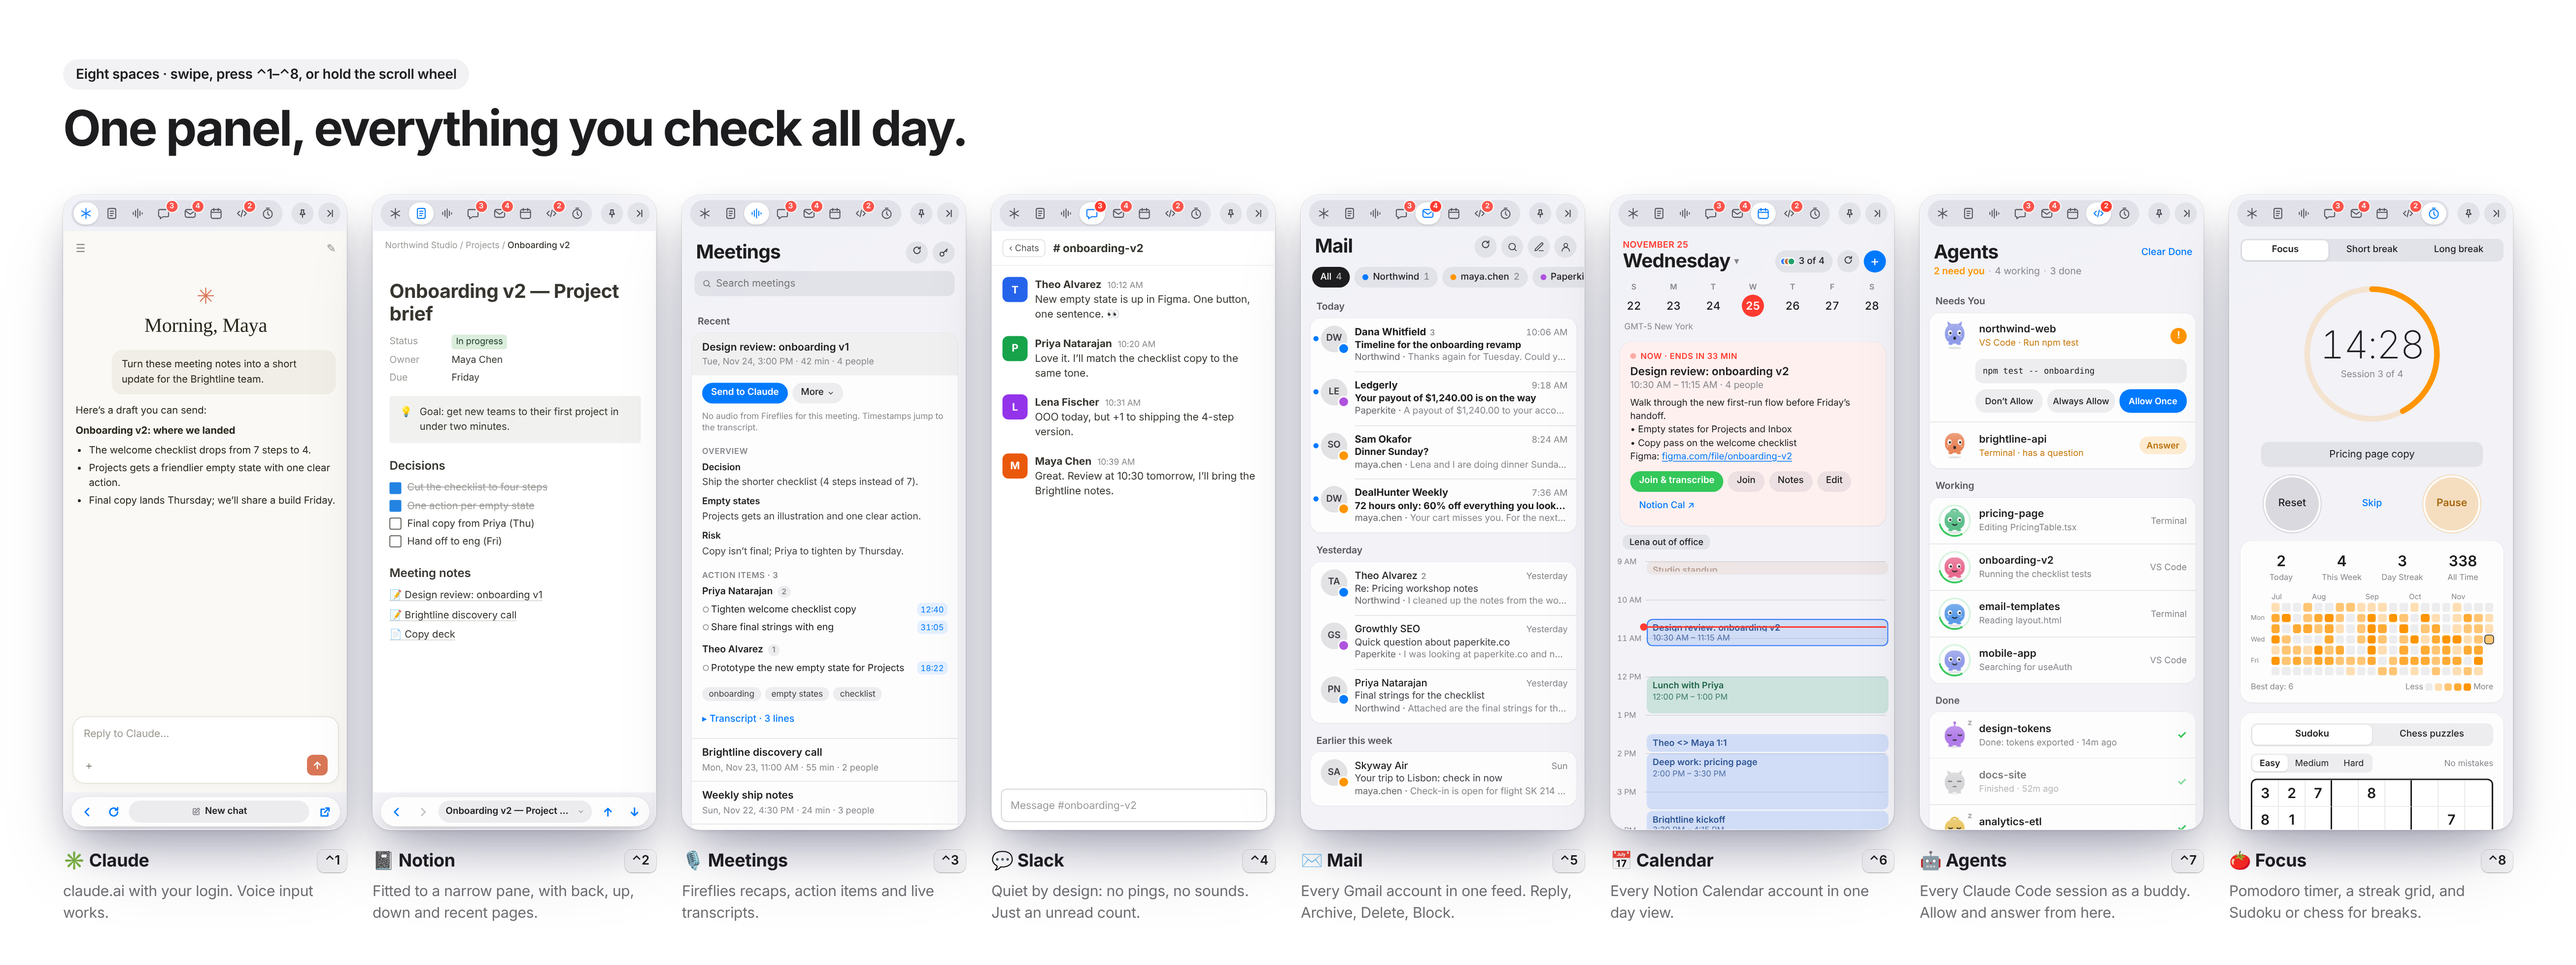
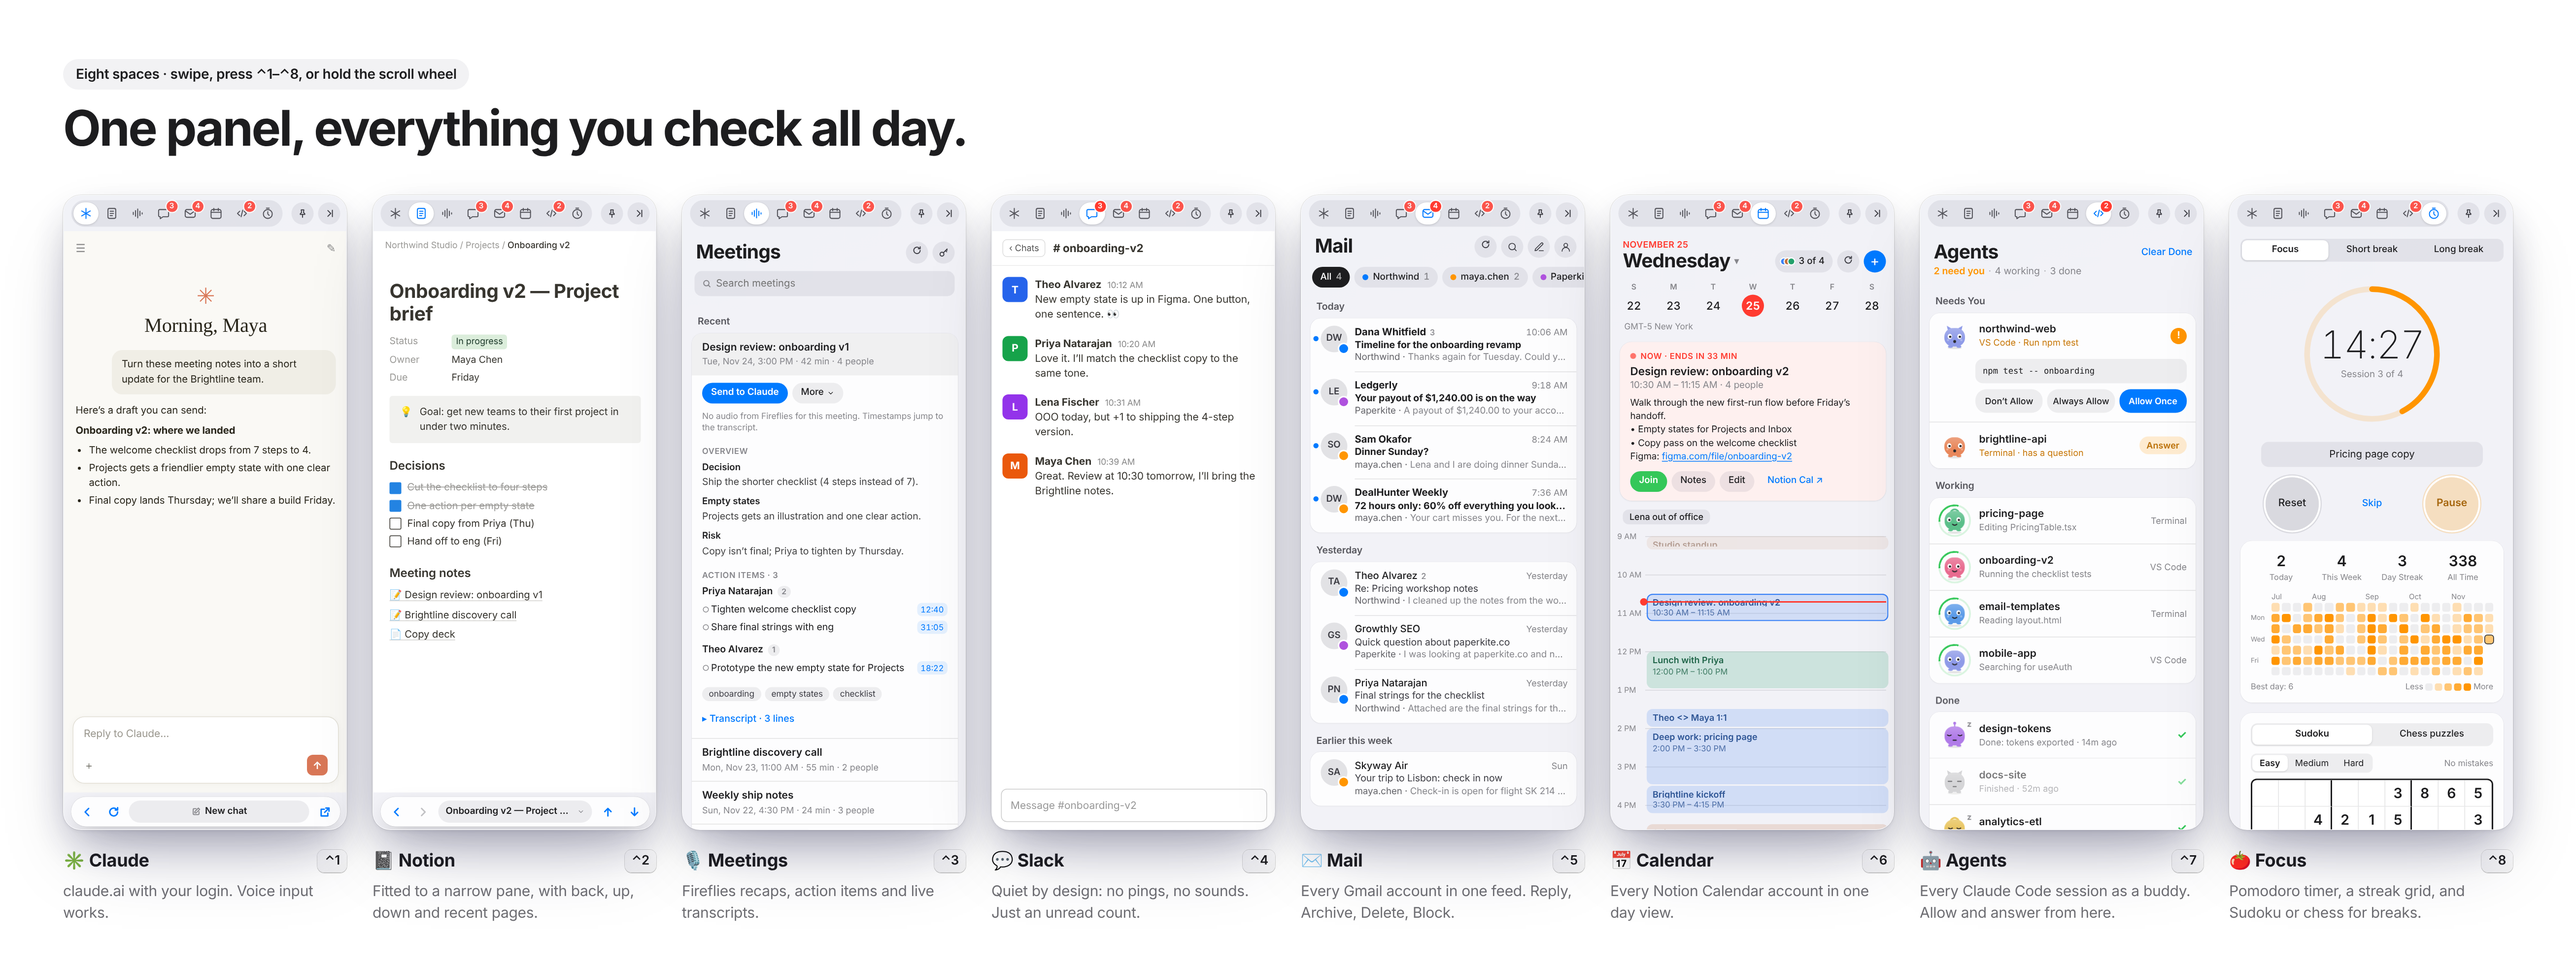
Notion: no AI Meeting Notes in Rail; Notes opens the meeting page; room for the block handle
- Hide Notion's AI Meeting Notes block (note taker / transcription) at every
  width, by block type and by its transcription button.
- Calendar's Notes opens the meeting's own page: when Notion hands back the AI
  block's page, go to the page it sits in.
- Remove Join & transcribe and Transcribe (and the code that started Notion's
  transcription). Join is the main button on the event card.
- Notion's left margin is 44px (was 16) so a block's drag handle sits inside
  the pane, away from the window edge and the sidebar.
- README and images updated.

Claude-Session: https://claude.ai/code/session_016wir8jwdAXLgTiGdY5bsxT

Changed region(s): [[0.6236, 0.4668, 0.7483, 0.8714]]

diff --git a/src/main/main.ts b/src/main/main.ts
@@ -735,10 +735,6 @@ const NOTION_CHILDREN = `(() => {
     seen.add(id);
     out.push({ url: location.origin + '/p/' + id, title: (title || '').replace(/\\s+/g, ' ').trim().slice(0, 70) || 'Untitled', kind });
   };
-  for (const b of frame.querySelectorAll('[class*="notion-meeting_note"][data-block-id]')) {
-    const t = b.querySelector('h1, h2, h3, [placeholder]')?.textContent || b.textContent;
-    add(b.getAttribute('data-block-id').replace(/-/g, ''), t, 'Meeting note');
-  }
   for (const b of frame.querySelectorAll('.notion-page-content [class*="notion-collection_view"][data-block-id]')) {
     const t = b.querySelector('[contenteditable], [placeholder]')?.textContent || b.textContent.slice(0, 60);
     add(b.getAttribute('data-block-id').replace(/-/g, ''), t, 'Database');
@@ -768,7 +764,7 @@ async function notionDown() {
   const kids = (await wc.executeJavaScript(NOTION_CHILDREN).catch(() => [])) as { url: string; title: string; kind: string }[];
   const ok = kids.filter((k) => /^https:\/\/([a-z]+\.)?notion\.(so|com)\//.test(k.url));
   const items: Electron.MenuItemConstructorOptions[] = ok.length
-    ? ok.map((k) => ({ label: k.kind === 'Meeting note' ? `\u{1F4DD}  ${k.title}` : k.title, sublabel: k.kind, click: () => wc.loadURL(k.url) }))
+    ? ok.map((k) => ({ label: k.title, sublabel: k.kind, click: () => wc.loadURL(k.url) }))
     : [{ label: 'No pages inside this one', enabled: false }];
   const d = divider.getBounds();
   Menu.buildFromTemplate(items).popup({ window: win, x: Math.max(0, d.width - 220), y: STRIP_H + d.y });
@@ -1109,43 +1105,30 @@ type CalReq =
   | { op: 'move'; id: string; title: string; start: number; end: number }
   | { op: 'edit'; id: string; title: string; start: number; end: number }
   | { op: 'add'; calendar: string; title: string; start: number; end: number }
-  | { op: 'notes'; id: string; transcribe?: boolean; join?: boolean }
+  | { op: 'notes'; id: string }
   | { op: 'rsvp'; id: string; title: string; response: 'accepted' | 'declined' | 'tentative' };
 
-// After a meeting note loads in the Notion pane, start Notion's own browser
-// transcription (the "Start in browser" choice under its transcription
-// button), the same as clicking it by hand. Only runs when the user pressed
-// Transcribe in Rail.
-const START_TRANSCRIPTION = `new Promise((done) => {
-  const t0 = Date.now();
-  const step = () => {
-    if (Date.now() - t0 > 15000) return done('timeout');
-    const item = [...document.querySelectorAll('.notion-overlay-container [role=menuitem], .notion-overlay-container [role=option], .notion-overlay-container [role=button]')]
-      .find((x) => /^Start in browser/.test(x.textContent.trim()));
-    if (item) { item.click(); return done('started'); }
-    const more = document.querySelector('[role=button][aria-label^="More transcri"]');
-    if (more && more.getAttribute('aria-expanded') !== 'true') more.click();
-    setTimeout(step, 400);
-  };
-  step();
-})`;
-
-// Notion files a calendar meeting note as a block inside a page of the same
-// name (the database row, with the user's properties). Notion's API returns
-// the block's own page; when its parent in the top bar is that same-named page,
-// open the parent instead, where the user takes notes.
+// Notion files a calendar meeting note as an AI Meeting Notes block inside the
+// meeting's page (the database row, with the user's properties). Notion's API
+// returns the block's own page. Rail doesn't use the AI block (it's hidden), so
+// open the page it sits in: the last link in the top bar's breadcrumb.
 const FIND_NOTE_PARENT = `new Promise((done) => {
   const t0 = Date.now();
   const norm = (t) => (t || '').replace(/\\s+/g, ' ').trim().slice(0, 24).toLowerCase();
+  const dashed = (id) => id.replace(/^(.{8})(.{4})(.{4})(.{4})(.{12})$/, '$1-$2-$3-$4-$5');
   const step = () => {
     if (Date.now() - t0 > 8000) return done(null);
-    const h1 = document.querySelector('.notion-frame h1, .notion-frame [placeholder="New page"], .notion-frame .notion-page-block');
     const here = location.pathname.match(/[0-9a-f]{32}/)?.[0];
     const link = [...document.querySelectorAll('.notion-topbar a[href*="/p/"], header a[href*="/p/"]')].pop();
-    if (h1 && link) {
-      const id = link.getAttribute('href').match(/[0-9a-f]{32}/)?.[0];
-      return done(id && id !== here && norm(link.textContent) === norm(h1.textContent) ? link.href : null);
-    }
+    const id = link?.getAttribute('href').match(/[0-9a-f]{32}/)?.[0];
+    const parent = id && id !== here ? link.href : null;
+    // Opened on the AI block itself: its own page is that block.
+    const root = here && document.querySelector('[data-block-id="' + dashed(here) + '"]');
+    if (parent && root && /meeting_note|transcription/.test(root.className)) return done(parent);
+    const h1 = document.querySelector('.notion-frame h1, .notion-frame [placeholder="New page"], .notion-frame .notion-page-block');
+    const ai = document.querySelector('.notion-frame [class*="notion-meeting_note"], .notion-frame [aria-label^="More transcri"]');
+    if (parent && ai && !h1) return done(parent);
+    if (h1 && link) return done(parent && norm(link.textContent) === norm(h1.textContent) ? parent : null);
     setTimeout(step, 300);
   };
   step();
@@ -1156,13 +1139,6 @@ async function openNoteParent() {
   if (wc.isLoading()) await new Promise<void>((r) => wc.once('did-finish-load', () => r()));
   const parent = await wc.executeJavaScript(FIND_NOTE_PARENT).catch(() => null);
   if (typeof parent === 'string' && /^https:\/\/([a-z]+\.)?notion\.(so|com)\//.test(parent)) await wc.loadURL(parent).catch(() => {});
-}
-
-function startNoteTranscription() {
-  const wc = notion.webContents;
-  const run = () => void wc.executeJavaScript(START_TRANSCRIPTION).catch(() => {});
-  if (wc.isLoading()) wc.once('did-finish-load', run);
-  else run();
 }
 
 async function handleCal(req: CalReq): Promise<unknown> {
@@ -1230,11 +1206,8 @@ async function handleCal(req: CalReq): Promise<unknown> {
       await refreshCalendar();
       return calSnapshot();
     case 'notes': {
-      const ev = anyCalEvent(req.id);
-      if (req.join && ev?.joinUrl) void shell.openExternal(ev.joinUrl);
       showNotionPage(await ncal.meetingNote(req.id));
       await openNoteParent();
-      if (req.transcribe) startNoteTranscription();
       return calSnapshot();
     }
     case 'rsvp': {

diff --git a/src/preload/notionCompact.ts b/src/preload/notionCompact.ts
@@ -1,17 +1,20 @@
 // Notion keeps ~96px side margins designed for wide windows. In Rail's narrow
-// pane that wastes a quarter of the width. This trims them to 16px while the
-// pane is narrow. It reads layout (computed styles), never page content, and
+// pane that wastes a quarter of the width. This trims them while the pane is
+// narrow: 44px on the left, so a block's ⋮⋮ drag handle (which Notion draws in
+// the margin, left of the block) stays inside the pane and away from the
+// window's edge, and 16px on the right. It reads layout (computed styles), never page content, and
 // doesn't rely on Notion's class names, which change often.
 
 const NARROW_MAX = 640; // only act when the pane is this narrow (CSS px)
 const MIN_MARGIN = 60; // margins at least this wide are "desktop" margins
-const GUTTER = 16;
+const GUTTER = 16; // right margin
+const LEFT = 44; // left margin: room for the ⋮⋮ block handle
 const MARK = 'data-rail-compact';
 
 const CSS = `
   [style*="padding-left: calc(96px"], [style*="padding-inline-start: calc(96px"] {
-    padding-left: calc(${GUTTER}px + env(safe-area-inset-left)) !important;
-    padding-inline-start: calc(${GUTTER}px + env(safe-area-inset-left)) !important;
+    padding-left: calc(${LEFT}px + env(safe-area-inset-left)) !important;
+    padding-inline-start: calc(${LEFT}px + env(safe-area-inset-left)) !important;
   }
   [style*="padding-right: calc(96px"], [style*="padding-inline-end: calc(96px"] {
     padding-right: calc(${GUTTER}px + env(safe-area-inset-right)) !important;
@@ -23,9 +26,7 @@ const CSS = `
      fixed max-width (about half the pane). Let them use the full width; media
      blocks keep their own sizing. */
   .notion-selectable:not(.notion-image-block):not(.notion-video-block):not(.notion-embed-block):not(.notion-bookmark-block)[style*="max-width"] { max-width: 100% !important; }
-  [class*="notion-meeting_note"] div:has(> div > h2) { flex-wrap: wrap !important; row-gap: 8px !important; }
-  [class*="notion-meeting_note"] div:has(> h2) { flex: 1 1 100% !important; }
-  [style*="padding-left: 96px"] { padding-left: ${GUTTER}px !important; }
+  [style*="padding-left: 96px"] { padding-left: ${LEFT}px !important; }
   [style*="padding-right: 96px"] { padding-right: ${GUTTER}px !important; }
 `;
 
@@ -42,7 +43,7 @@ function compactGrid(el: HTMLElement) {
   const [l, , r] = tracks.map((t) => parseFloat(t));
   if (!(l >= MIN_MARGIN && r >= MIN_MARGIN)) return;
   let i = 0;
-  const sizes = [`${GUTTER}px`, 'minmax(0, 1fr)', `${GUTTER}px`];
+  const sizes = [`${LEFT}px`, 'minmax(0, 1fr)', `${GUTTER}px`];
   const next = parts.map((p) => (p.startsWith('[') ? p : sizes[i++])).join(' ');
   el.style.setProperty('grid-template-columns', next, 'important');
   el.setAttribute(MARK, '1');
@@ -54,7 +55,7 @@ function compactPadding(el: HTMLElement) {
   const pr = parseFloat(cs.paddingRight);
   // Symmetric wide padding on a block that spans the pane = page margin.
   if (pl >= MIN_MARGIN && pr >= MIN_MARGIN && Math.abs(pl - pr) < 8 && el.clientWidth >= window.innerWidth * 0.8) {
-    el.style.setProperty('padding-left', `${GUTTER}px`, 'important');
+    el.style.setProperty('padding-left', `${LEFT}px`, 'important');
     el.style.setProperty('padding-right', `${GUTTER}px`, 'important');
     el.setAttribute(MARK, '1');
   }
@@ -164,6 +165,21 @@ function unfit() {
   });
 }
 
+// Notion's AI Meeting Notes block (the note taker and transcription card) is
+// not used in Rail: it's hidden at every width. Found by its block type, and,
+// in case Notion renames that, by the transcription button inside it.
+const NO_AI_NOTES = `
+  [class*="notion-meeting_note"], [class*="notion-transcription"] { display: none !important; }
+`;
+
+function hideAiNotes() {
+  document.querySelectorAll<HTMLElement>('[role="button"][aria-label^="More transcri"]:not([data-rail-hidden])').forEach((b) => {
+    b.setAttribute('data-rail-hidden', '1');
+    const block = b.closest<HTMLElement>('[data-block-id]');
+    if (block && !block.classList.contains('notion-page-block')) block.style.setProperty('display', 'none', 'important');
+  });
+}
+
 export function installNotionCompact() {
   let style: HTMLStyleElement | null = null;
   let timer: ReturnType<typeof setTimeout> | undefined;
@@ -189,13 +205,17 @@ export function installNotionCompact() {
   // Pop-ups are fitted on the next frame so they never show cut off.
   let raf = 0;
   const onMutate = () => {
-    if (!raf) raf = requestAnimationFrame(() => { raf = 0; fitOverlays(); hideAddProperty(); });
+    if (!raf) raf = requestAnimationFrame(() => { raf = 0; fitOverlays(); hideAddProperty(); hideAiNotes(); });
     schedule();
   };
 
   document.addEventListener('DOMContentLoaded', () => {
+    const noAi = document.createElement('style');
+    noAi.textContent = NO_AI_NOTES;
+    document.documentElement.appendChild(noAi);
     apply();
     hideAddProperty();
+    hideAiNotes();
     new MutationObserver(onMutate).observe(document.body, { childList: true, subtree: true });
     // Pop-ups can also move without any DOM being added (style-only
     // re-positioning), so re-check while one is open.

diff --git a/src/renderer/Calendar.tsx b/src/renderer/Calendar.tsx
@@ -290,17 +290,8 @@ function Today({ snap, busy, error, run }: { snap: CalSnapshot; busy: string; er
             </div>
           )}
           <div className="dbar wrap">
-            {focus.joinUrl ? (
-              <>
-                <button className="btn small primary" disabled={busy === 'notes'} title="Join the call and start Notion transcription in its meeting note"
-                  onClick={() => run('notes', { op: 'notes', id: focus.id, join: true, transcribe: true })}>Join &amp; transcribe</button>
-                <button className="btn small" onClick={() => void cal({ op: 'open', url: focus.joinUrl! })}>Join</button>
-              </>
-            ) : (
-              <button className="btn small primary" disabled={busy === 'notes'} title="Open the meeting note and start Notion transcription"
-                onClick={() => run('notes', { op: 'notes', id: focus.id, transcribe: true })}>Transcribe</button>
-            )}
-            <button className="btn small" disabled={busy === 'notes'} title="Open this event's Notion meeting note (makes one if there isn't one yet)" onClick={() => run('notes', { op: 'notes', id: focus.id })}>
+            {focus.joinUrl && <button className="btn small primary" onClick={() => void cal({ op: 'open', url: focus.joinUrl! })}>Join</button>}
+            <button className="btn small" disabled={busy === 'notes'} title="Open this event's meeting page in Notion" onClick={() => run('notes', { op: 'notes', id: focus.id })}>
               {busy === 'notes' ? 'Opening…' : 'Notes'}
             </button>
             {focus.canMove && <button className="btn small" title="Change the name, date or time" onClick={() => setEditing(focus.id)}>Edit</button>}

diff --git a/docs/design/shots/calendar.html b/docs/design/shots/calendar.html
@@ -7,7 +7,7 @@
     <div class="list">
       <div class="callout bg-blue"><span class="ic">👆</span><div><b>Drag to move, double-click to add.</b> Times snap to 15 minutes; guests get a heads-up first.</div></div>
       <div class="callout bg-yellow"><span class="ic">✏</span><div><b>Edit</b> the name, date and time right on the card.</div></div>
-      <div class="callout bg-purple"><span class="ic">🎙</span><div><b>Join &amp; transcribe</b> opens the call and the event's Notion meeting note in one click.</div></div>
+      <div class="callout bg-purple"><span class="ic">🎥</span><div><b>Join</b> the call, or open its meeting page in Notion with <b>Notes</b>.</div></div>
       <div class="callout bg-gray"><span class="ic">📝</span><div>Descriptions, links and RSVPs, without leaving the panel.</div></div>
     </div>
   </div>

diff --git a/docs/design/shots/bento.html b/docs/design/shots/bento.html
@@ -139,7 +139,7 @@
     <div class="t" style="grid-column: span 4; height: 760px;">
       <div class="eb"><span class="g-cal">Calendar</span></div>
       <h2 class="s">Every calendar.<br>One day.</h2>
-      <p>Work and personal side by side. <b>Drag</b> to move or draw events, RSVP, and <b>Join &amp; transcribe</b>.</p>
+      <p>Work and personal side by side. <b>Drag</b> to move or draw events, RSVP, and <b>Join</b> in one click.</p>
       <div class="crop" style="left:34px; right:34px; top:214px; height:560px;">
         <iframe src="../panel.html?space=calendar" style="transform: scale(1.0); left:0; top:-48px;"></iframe>
       </div>

diff --git a/src/renderer/rail.ts b/src/renderer/rail.ts
@@ -166,7 +166,7 @@ export type CalReq =
   | { op: 'move'; id: string; title: string; start: number; end: number }
   | { op: 'edit'; id: string; title: string; start: number; end: number }
   | { op: 'add'; calendar: string; title: string; start: number; end: number }
-  | { op: 'notes'; id: string; transcribe?: boolean; join?: boolean }
+  | { op: 'notes'; id: string }
   | { op: 'rsvp'; id: string; title: string; response: 'accepted' | 'declined' | 'tentative' };
 
 export async function cal(req: CalReq): Promise<CalSnapshot> {

diff --git a/README.md b/README.md
@@ -43,7 +43,7 @@ Press `⌃` `` ` `` anywhere to slide it in or out. Swipe with two fingers on th
 - **Any day.** Click the date for a month view and pick a day; **Today** brings you back.
 - **Move things fast.** Drag an event to move it (it snaps to 15 minutes). **Drag across empty time** to draw a new event, or double-click a slot, or press **+**.
 - **Edit** an event's name, date and time on its card. If other people are invited, Rail asks first, because they'll get an update.
-- **Click an event** to read its description and location, RSVP, open its Notion meeting note, or **Join & transcribe** the call.
+- **Click an event** to read its description and location, RSVP, **Join** the call, or open its meeting page in Notion with **Notes**.
 - **A nudge** 5 minutes before each meeting. The Calendar tab counts down (`12m`, `now`).
 
 ## ✉ Mail
@@ -91,6 +91,8 @@ When Claude Code is minimized, you can't see what your agents are doing. The Age
 
 - The real Notion site, with margins, pop-ups and blocks re-fit so nothing gets cut off at 384 px wide.
 - A toolbar at the bottom, like Safari's: **back / forward**, **↑ up** to the page this one lives in, and **↓ down** into any sub-page, meeting note or database on the page.
+- Notion's **AI Meeting Notes** block (the note taker) is hidden in Rail, and **Notes** on a calendar event opens the meeting's own page.
+- The left margin leaves room for each block's **⋮⋮ handle**, so you can grab and drag blocks.
 - Click the page title in the toolbar for your **15 most recent pages**, Notion home, reload, or "open in the Notion app".
 - `notion://` links from Calendar, Slack or Claude open right here instead of in a browser.
 
